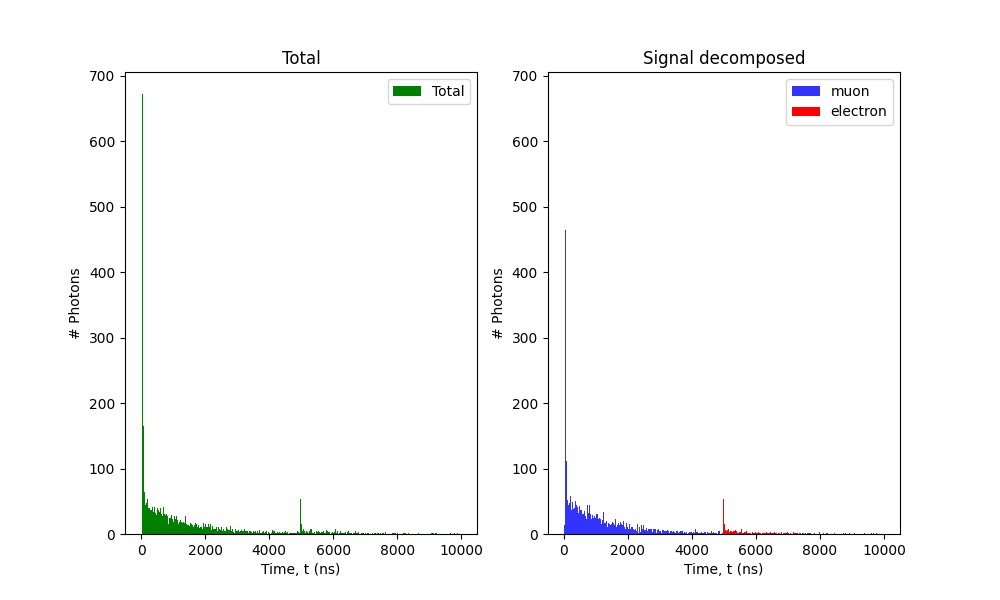
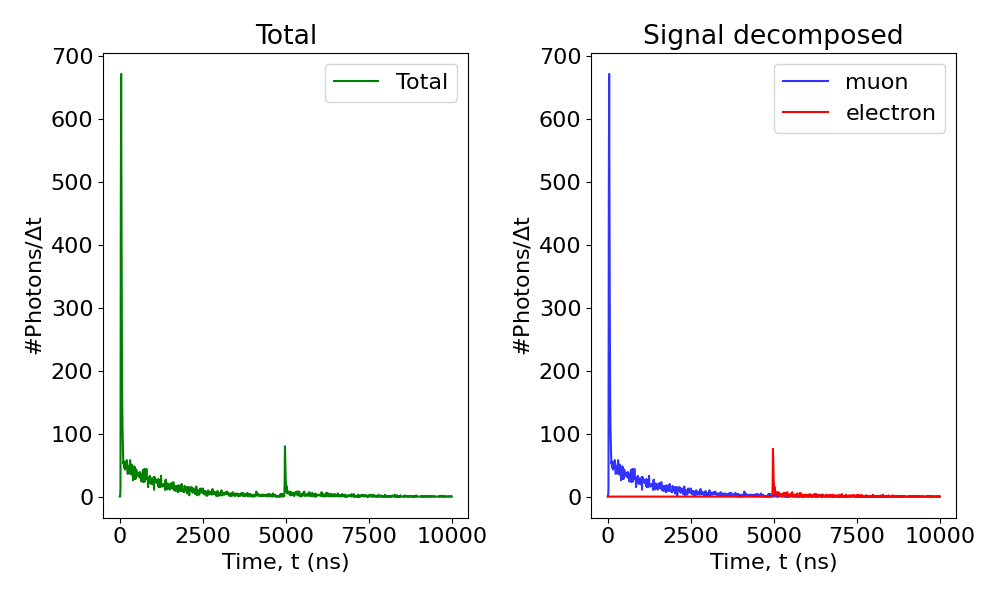
Minor

diff --git a/scripts/python/Graphics/signalDecomposition.py b/scripts/python/Graphics/signalDecomposition.py
@@ -80,20 +80,30 @@ for folder in os.listdir(ROOT):
             for entry in range(len(branches["eventID"])): # entries loop
                 
                 if (pre_ID != branches["eventID"][entry]): 
-                    # fig, axs = plt.subplots(1,2,figsize=(10,6))
-                    # plt.title('idx: '+ str(count)+'_'+str(pre_ID))
-                    # axs[0].hist(signal_e + signal_mu, 1000, [0,10000], label = 'Total', color='g')
-                    # axs[0].set_xlabel("Time, t (ns)")
-                    # axs[0].set_ylabel("# Photons")
-                    # axs[0].set_title("Total")
-                    # axs[0].legend(loc='best')
+                    hist_e = np.histogram(signal_e, 1000, [0,10000])[0]
+                    hist_mu = np.histogram(signal_mu, 1000, [0,10000])[0]
+                    t = np.arange(0,10000,10)
                     
-                    # axs[1].hist(signal_mu, 1000, [0,10000], alpha=0.8, color="blue", label="muon")
-                    # axs[1].hist(signal_e, 1000, [0,10000], color="red", label="electron")
-                    # axs[1].set_xlabel("Time, t (ns)")
-                    # axs[1].set_ylabel("# Photons")
-                    # axs[1].set_title("Signal decomposed")
-                    # axs[1].legend(loc='best')
+                    
+                    plt.rcParams['font.size'] = str(16)
+                    
+                    fig, axs = plt.subplots(1,2,figsize=(10,6))
+                    plt.title('idx: '+ str(count)+'_'+str(pre_ID))                    
+                    axs[0].plot(t, hist_e+hist_mu, label = 'Total', color='g')
+                    axs[0].set_xlabel("Time, t (ns)")
+                    axs[0].set_ylabel(r"#Photons/$\Delta$t")
+                    axs[0].set_title("Total")
+                    axs[0].legend(loc='best')
+                    
+                    axs[1].plot(t, hist_mu, alpha=0.8, color="blue", label="muon")
+                    axs[1].plot(t, hist_e, color="red", label="electron")
+                    axs[1].set_xlabel("Time, t (ns)")
+                    axs[1].set_ylabel(r"#Photons/$\Delta$t")
+                    axs[1].set_title("Signal decomposed")
+                    axs[1].legend(loc='best')
+                    
+                    plt.tight_layout()
+                    plt.show()
                     
                     # fig = plt.figure(figsize=(8,5))
                     # plt.title('idx: '+ str(count)+'_'+str(pre_ID))
@@ -104,13 +114,13 @@ for folder in os.listdir(ROOT):
                     # plt.ylabel("# Photons")
                     # plt.legend(loc='best')          
                     
-                    # print('idx: ', str(count)+'_'+str(pre_ID))
+                    print('idx: ', str(count)+'_'+str(pre_ID))
                     
                     # plt.tight_layout()
                     # plt.show()
                     
-                    idx = 'idx: ' + str(count)+'_'+str(pre_ID)
-                    addToCSV(output, signal_e, len(signal_e), idx)
+                    # idx = 'idx: ' + str(count)+'_'+str(pre_ID)
+                    # addToCSV(output, signal_e, len(signal_e), idx)
                     
                     signal_e = []
                     signal_mu = []
@@ -124,7 +134,7 @@ for folder in os.listdir(ROOT):
                         
                 pre_ID = branches["eventID"][entry]
                 
-                print("Entry: ", entry, ", eventID: ", branches["eventID"][entry], 
-                      ", pre_ID: ", pre_ID)
+                # print("Entry: ", entry, ", eventID: ", branches["eventID"][entry], 
+                #       ", pre_ID: ", pre_ID)
                 
             count+=1

diff --git a/scripts/python/Graphics/SignalComparation.py b/scripts/python/Graphics/SignalComparation.py
@@ -190,9 +190,9 @@ for folder in os.listdir(ROOT):
                 fig, axs = plt.subplots(1,3,figsize=(18, 8))
                 axs[0].plot(np.arange(0,10000,10), LightSignal, color = 'g', label='Total')
                 axs[0].set_xlabel("Time, t (ns)")
-                axs[0].set_ylabel("# Photons", fontsize=fontsize)
-                axs[0].set_title("Light Signal (ideal)", fontsize=fontsize)
-                axs[0].legend(loc='best', prop={'size':fontsize})
+                axs[0].set_ylabel(r"#Photons/$\Delta$t")
+                axs[0].set_title("Light Signal (ideal)")
+                axs[0].legend(loc='best', )
                 
                 axs[1].plot(x_raw_hot, y_raw_hot, color = 'g', label='Total')
                 axs[1].set_xlabel("Time, t (ns)", fontsize=fontsize)
@@ -214,19 +214,19 @@ for folder in os.listdir(ROOT):
                 fig, axs = plt.subplots(1,3,figsize=(18, 8))
                 axs[0].plot(np.arange(0,10000,10), VIS, color = 'g', label='VIS')
                 axs[0].set_xlabel("Time, t (ns)")
-                axs[0].set_ylabel("# Photons")
+                axs[0].set_ylabel(r"#Photons/$\Delta$t")
                 axs[0].set_title("Light Signal (ideal)")
                 axs[0].legend(loc='best')
                 
                 axs[1].plot(np.arange(0,10000,10), VUV, color = 'g', label='VUV')
                 axs[1].set_xlabel("Time, t (ns)")
-                axs[1].set_ylabel("# Photons")
+                axs[1].set_ylabel(r"#Photons/$\Delta$t")
                 axs[1].set_title("Light Signal (ideal)")
                 axs[1].legend(loc='best')
                 
                 axs[2].plot(np.arange(0,10000,10), LightSignal, color = 'g', label='Total')
                 axs[2].set_xlabel("Time, t (ns)")
-                axs[2].set_ylabel("# Photons")
+                axs[2].set_ylabel(r"#Photons/$\Delta$t")
                 axs[2].set_title("Light Signal (ideal)")
                 axs[2].legend(loc='best')
                 
